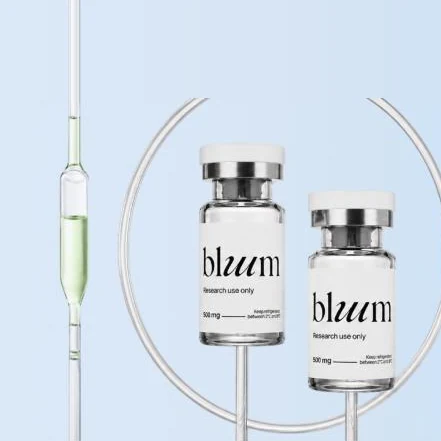
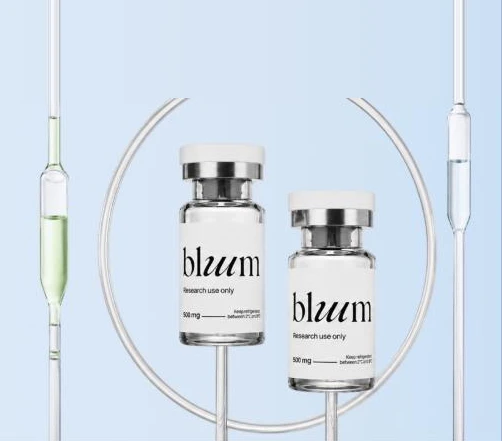
Blog: Figma hero framing, Shop-style Sort menu, category badge styling

Changed region(s): [[0.059, 0.0, 1.0, 1.0], [0.0884, 0.0884, 0.1179, 0.1474], [0.0884, 0.0, 0.1179, 0.059]]

diff --git a/src/runtime/verified-blog.tsx b/src/runtime/verified-blog.tsx
@@ -3,6 +3,9 @@ import { Link } from "@tanstack/react-router"
 import { ArticleImage } from "@/components/article-image"
 import type { ResearchArticleSummary, ShopifyResearchArticle } from "@/lib/content/shopify-research"
 import { VerifiedSupport } from "./verified-support"
+import { FilterPopover } from "./verified-catalog-controls"
+
+const ARTICLE_SORTS = [{ id: "newest", label: "Newest first" }, { id: "oldest", label: "Oldest first" }, { id: "title", label: "A–Z" }] as const
 
 export const articleDate = (date: string) => new Date(date).toLocaleDateString(undefined, { day: "numeric", month: "short", year: "numeric" })
 export function filterArticles(articles: ResearchArticleSummary[], category: string, sort: string) {
@@ -22,7 +25,10 @@ export const VerifiedBlog = ({ articles, initialPage = 1 }: { articles: Research
   return <div className="verified-journal" data-theme-page="blog">
     <header className="verified-journal-hero"><div className="verified-journal-hero-copy"><p>Science Journal</p><h1>Behind the <em>vial</em></h1><p>From purity testing to compound comparisons, explore the science behind research peptides.</p></div><picture className="verified-journal-hero-art"><source media="(max-width: 699px)" srcSet="/images/themes/verified/blog-hero-mobile.webp" /><img src="/images/themes/verified/blog-hero-desktop.webp" alt="" width="1512" height="441" fetchPriority="high" /></picture></header>
     <section className="verified-journal-content" aria-label="Research articles">
-      <div className="verified-journal-controls"><div className="verified-journal-categories" aria-label="Article categories"><button aria-pressed={!category} onClick={() => { setCategory(""); setLimit(12) }}>All Articles</button>{categories.map(tag => <button key={tag} aria-pressed={category === tag} onClick={() => { setCategory(tag); setLimit(12) }}>{tag}</button>)}</div><label className="verified-journal-sort">Sort By <select aria-label="Sort articles" value={sort} onChange={event => { setSort(event.target.value); setLimit(12) }}><option value="newest">Newest first</option><option value="oldest">Oldest first</option><option value="title">Title A–Z</option></select></label></div>
+      <div className="verified-journal-controls"><div className="verified-journal-categories" aria-label="Article categories"><button aria-pressed={!category} onClick={() => { setCategory(""); setLimit(12) }}>All Articles</button>{categories.map(tag => <button key={tag} aria-pressed={category === tag} onClick={() => { setCategory(tag); setLimit(12) }}>{tag}</button>)}</div><div className="verified-journal-sort"><FilterPopover label="Sort articles" text={sort === "newest" ? "Sort By" : ARTICLE_SORTS.find(({ id }) => id === sort)?.label} sort align="end">
+        {sort !== "newest" && <button className="verified-filter-clear" type="button" data-close-popover aria-label="Clear sort" onClick={() => { setSort("newest"); setLimit(12) }}>Clear</button>}
+        <div className="verified-sort-options" role="listbox" aria-label="Sort articles">{ARTICLE_SORTS.map(({ id, label }) => <button key={id} type="button" role="option" aria-selected={sort === id} data-close-popover className="verified-sort-option" onClick={() => { setSort(id); setLimit(12) }}>{label}</button>)}</div>
+      </FilterPopover></div></div>
       {featured ? <><article className="verified-journal-featured"><Link to="/blogs/research/$handle" params={{handle:featured.handle}} className="verified-journal-card-media" aria-label={`Read ${featured.title}`}><ArticleMedia article={featured} eager /></Link><div>{featured.tags[0] && <span className="verified-journal-tag">{featured.tags[0]}</span>}<h2><Link to="/blogs/research/$handle" params={{handle:featured.handle}}>{featured.title}</Link></h2><div><ArticleMeta article={featured}/><p>{featured.seo.description}</p><Link to="/blogs/research/$handle" params={{handle:featured.handle}} className="verified-button">Read Full Article</Link></div></div></article><div className="verified-journal-grid">{rest.slice(0,limit).map(article => <ArticleCard key={article.id} article={article} />)}</div>{rest.length > limit && <button className="verified-journal-more" onClick={() => setLimit(value=>value+12)}>Load more articles</button>}</> : <p>No articles available.</p>}
     </section><VerifiedSupport />
   </div>

diff --git a/src/runtime/verified-theme.css b/src/runtime/verified-theme.css
@@ -3340,3 +3340,19 @@
   /* The panel is portalled outside the themed wrapper, so scope it by the page having the theme. */
   :root:has([data-storefront-theme="verified"]) .bluum-search-panel { bottom: auto; height: auto; max-height: calc(100dvh - 2rem); }
 }
+
+/* Figma Blog hero: taller band, art scaled to the band height and anchored bottom-right;
+ * mobile shows the whole circle (art crop 502×441). */
+.verified-journal-hero { min-height: clamp(420px, 39.6vw, 600px); }
+.verified-journal-hero-art img { object-position: right bottom; }
+@media (max-width: 699px) {
+  .verified-journal-hero { min-height: 0; }
+  .verified-journal-hero-art { aspect-ratio: 502 / 441; margin-top: -40px; }
+  .verified-journal-hero-art img { object-fit: cover; object-position: center bottom; }
+}
+
+/* Figma Blog: category badge is a white pill in the image's top-left; the featured article's
+ * badge is a soft blue-grey pill above the title. */
+.verified-journal-card-media .verified-journal-tag { top: 16px; left: 16px; background: #fff; font-size: 13px; font-weight: 500; padding: 5px 12px; line-height: 1.3; }
+.verified-journal-featured .verified-journal-tag { background: #e7eef4; font-size: 13px; font-weight: 500; padding: 4px 12px; }
+.verified-journal-sort { margin-left: auto; }

diff --git a/src/runtime/verified-catalog-controls.tsx b/src/runtime/verified-catalog-controls.tsx
@@ -22,7 +22,7 @@ function ControlIcon({ sort = false }: { sort?: boolean }) {
   return <svg aria-hidden="true" width="18" height="18" viewBox="0 0 24 24" fill="none" stroke="currentColor" strokeWidth="1.6" strokeLinecap="round" strokeLinejoin="round">{sort ? <path d="m8 8 4-4 4 4M8 16l4 4 4-4" /> : <path d="m5 9 7 7 7-7" />}</svg>
 }
 
-function FilterPopover({ label, text = label, sort = false, align, children }: { label: string; text?: string; sort?: boolean; align?: "end"; children: ReactNode }) {
+export function FilterPopover({ label, text = label, sort = false, align, children }: { label: string; text?: string; sort?: boolean; align?: "end"; children: ReactNode }) {
   const [open, setOpen] = useState(false)
   const root = useRef<HTMLDivElement>(null)
   const trigger = useRef<HTMLButtonElement>(null)
